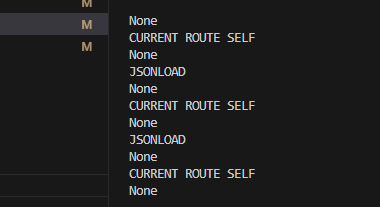
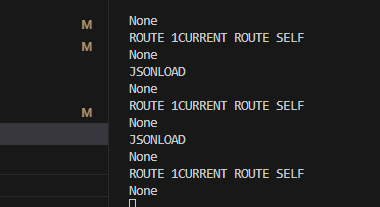
fixed route detection with better directories

diff --git a/autolocke/ui.py b/autolocke/ui.py
@@ -7,7 +7,7 @@ from autolocke.textCopy import ImageDiscover
 from PyQt5.QtCore import QTimer, Qt, QStringListModel
 from PyQt5.QtGui import QMovie, QFont, QFontDatabase
 from time import sleep
-
+import os
 
 cordsDictionary = {
     'Route':[242, 47, 745, 121],
@@ -135,14 +135,17 @@ class MainWindow(QMainWindow):
         route_thread.start()
         caught_thread.start()
 
+
     def analyzeRoute(self):
         currentRouteSS = ab.takeScreenshot('Route')
-        currentRouteAN = ab.screenshotAnalyze('routeImage.png')
+        imagePath = os.path.join('autolocke', 'Images', 'routeImage.png')
+        currentRouteAN = ab.screenshotAnalyze(imagePath)
         print(currentRouteAN)
 
     def analyzeCaught(self):
         pokemonCaughSS = ab.takeScreenshot('Caught')
-        pokemonCaught = ab.screenshotAnalyze('CaughtImage.png')
+        imagePath = os.path.join('autolocke', 'Images', 'CaughtImage.png')
+        pokemonCaught = ab.screenshotAnalyze(imagePath)
         if pokemonCaught is not None:
             self.data['Caught'] = pokemonCaught
             self.load_json_file()

diff --git a/autolocke/textCopy.py b/autolocke/textCopy.py
@@ -50,7 +50,7 @@ class ImageDiscover:
     def screenshotAnalyze(self, requestedImage):
         ia = fuzzChecker
         text = imageEnhancer.enhanceFunction(requestedImage)
-        if requestedImage == 'routeImage.png':
+        if requestedImage == 'autolocke\\Images\\routeImage.png':
             stripText = text.strip()
             routeFuzz = ia.checkList('autolocke/Data/fireredroutes.txt',stripText, minScore=76)
             print(routeFuzz)
@@ -60,7 +60,7 @@ class ImageDiscover:
                 print("in dict")
                 routeFuzzFinal = routeFuzz
                 self.currentRoute = routeFuzzFinal
-        elif requestedImage == 'CaughtImage.png':
+        elif requestedImage == 'autolocke\Images\CaughtImage.png':
             if "Gotcha" in text:
                 print("if caught")
                 if "!" in text:
